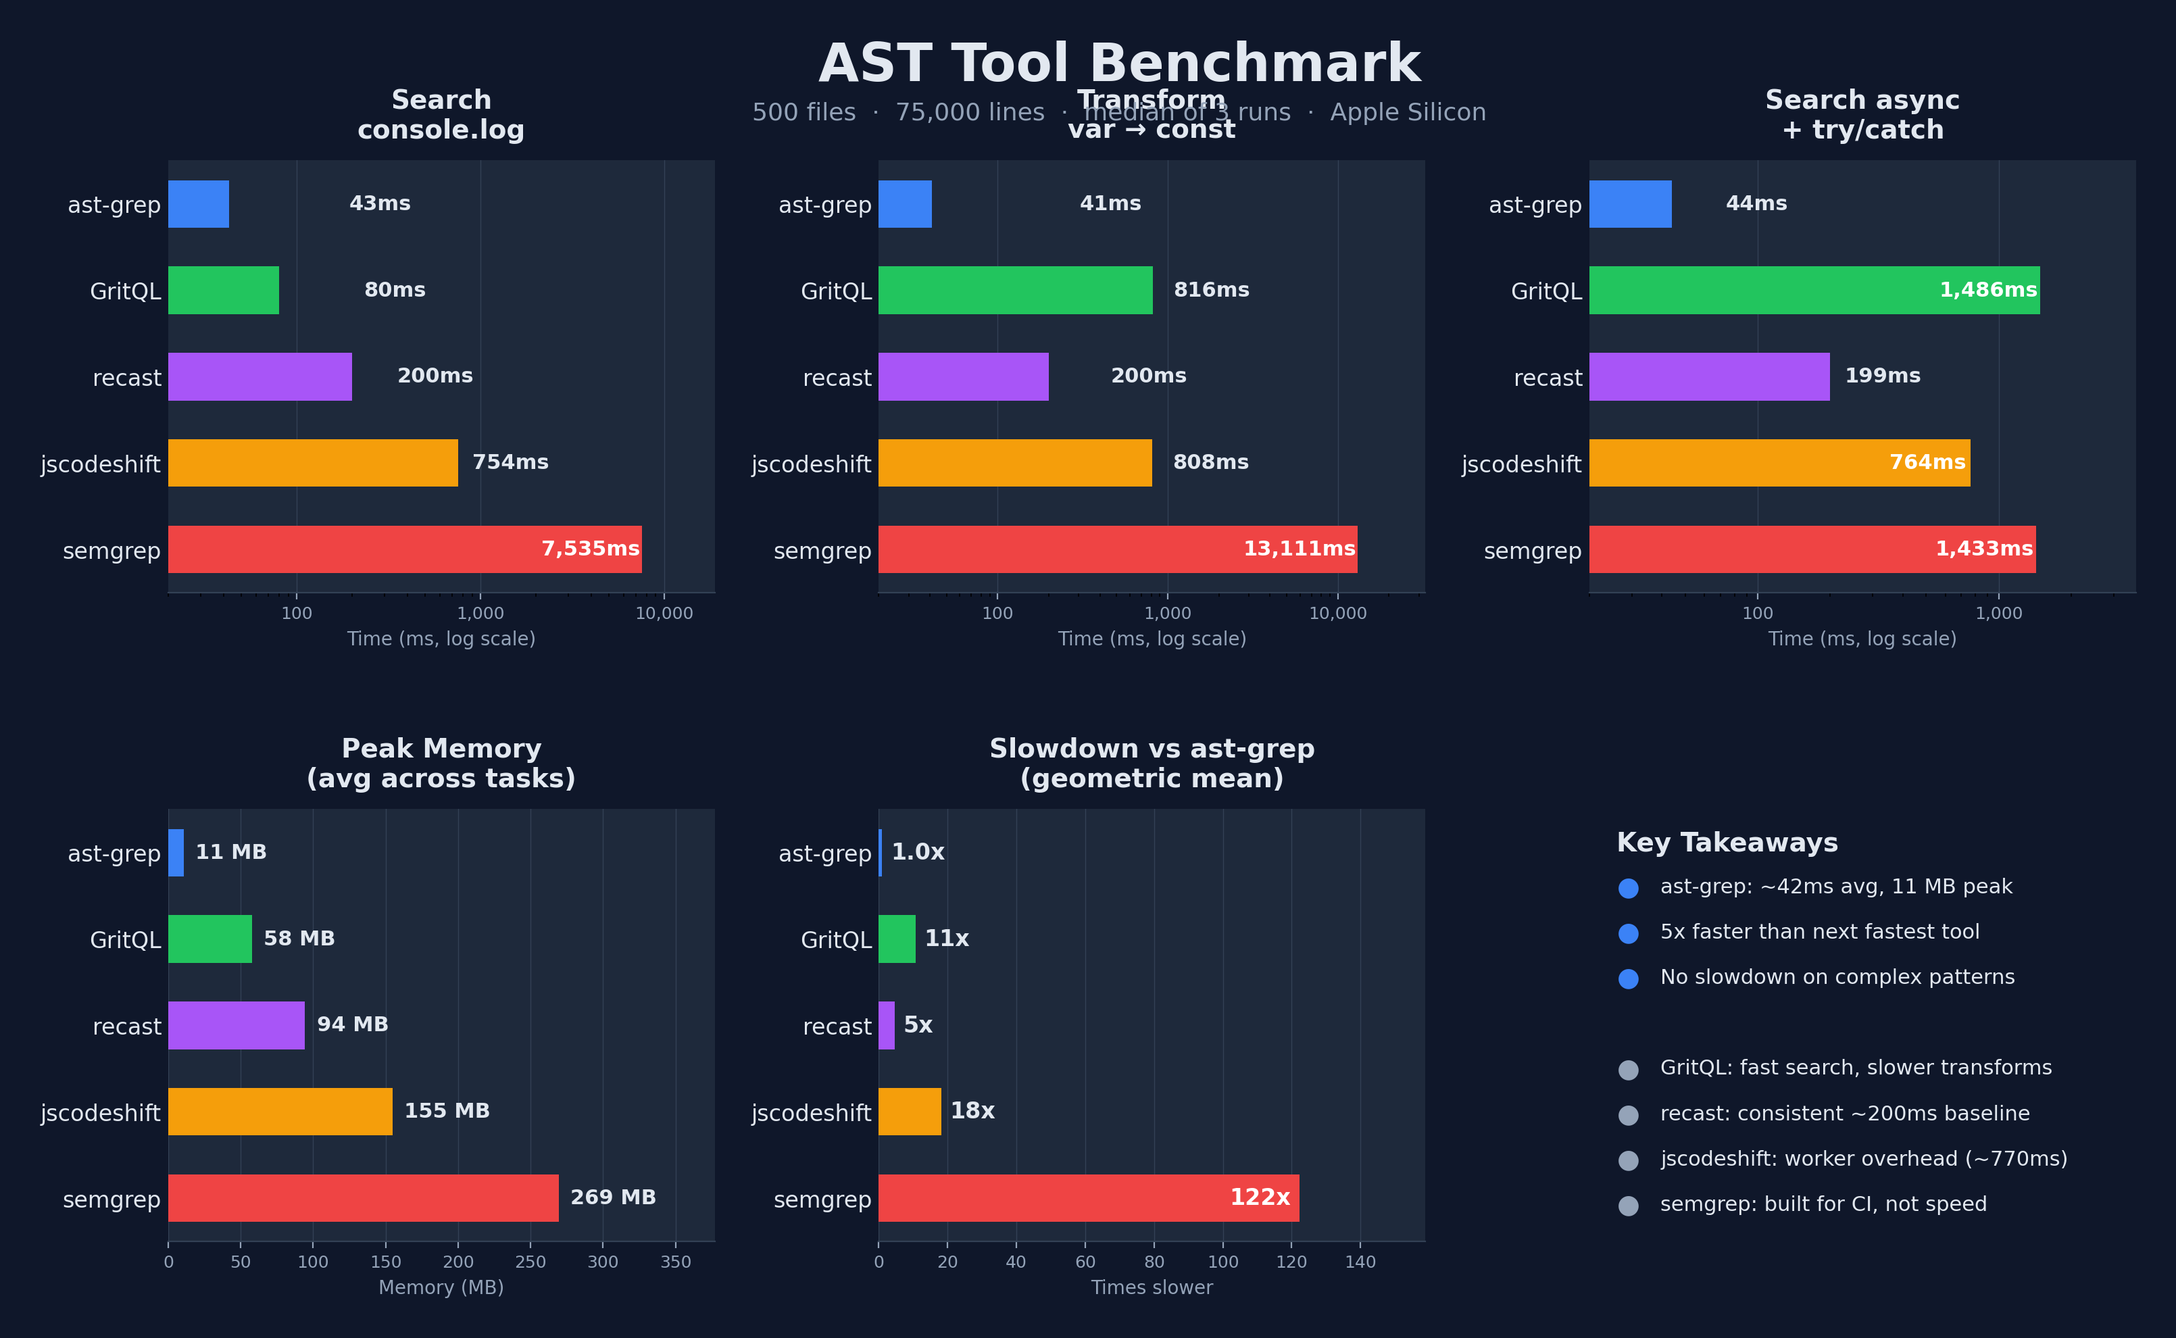
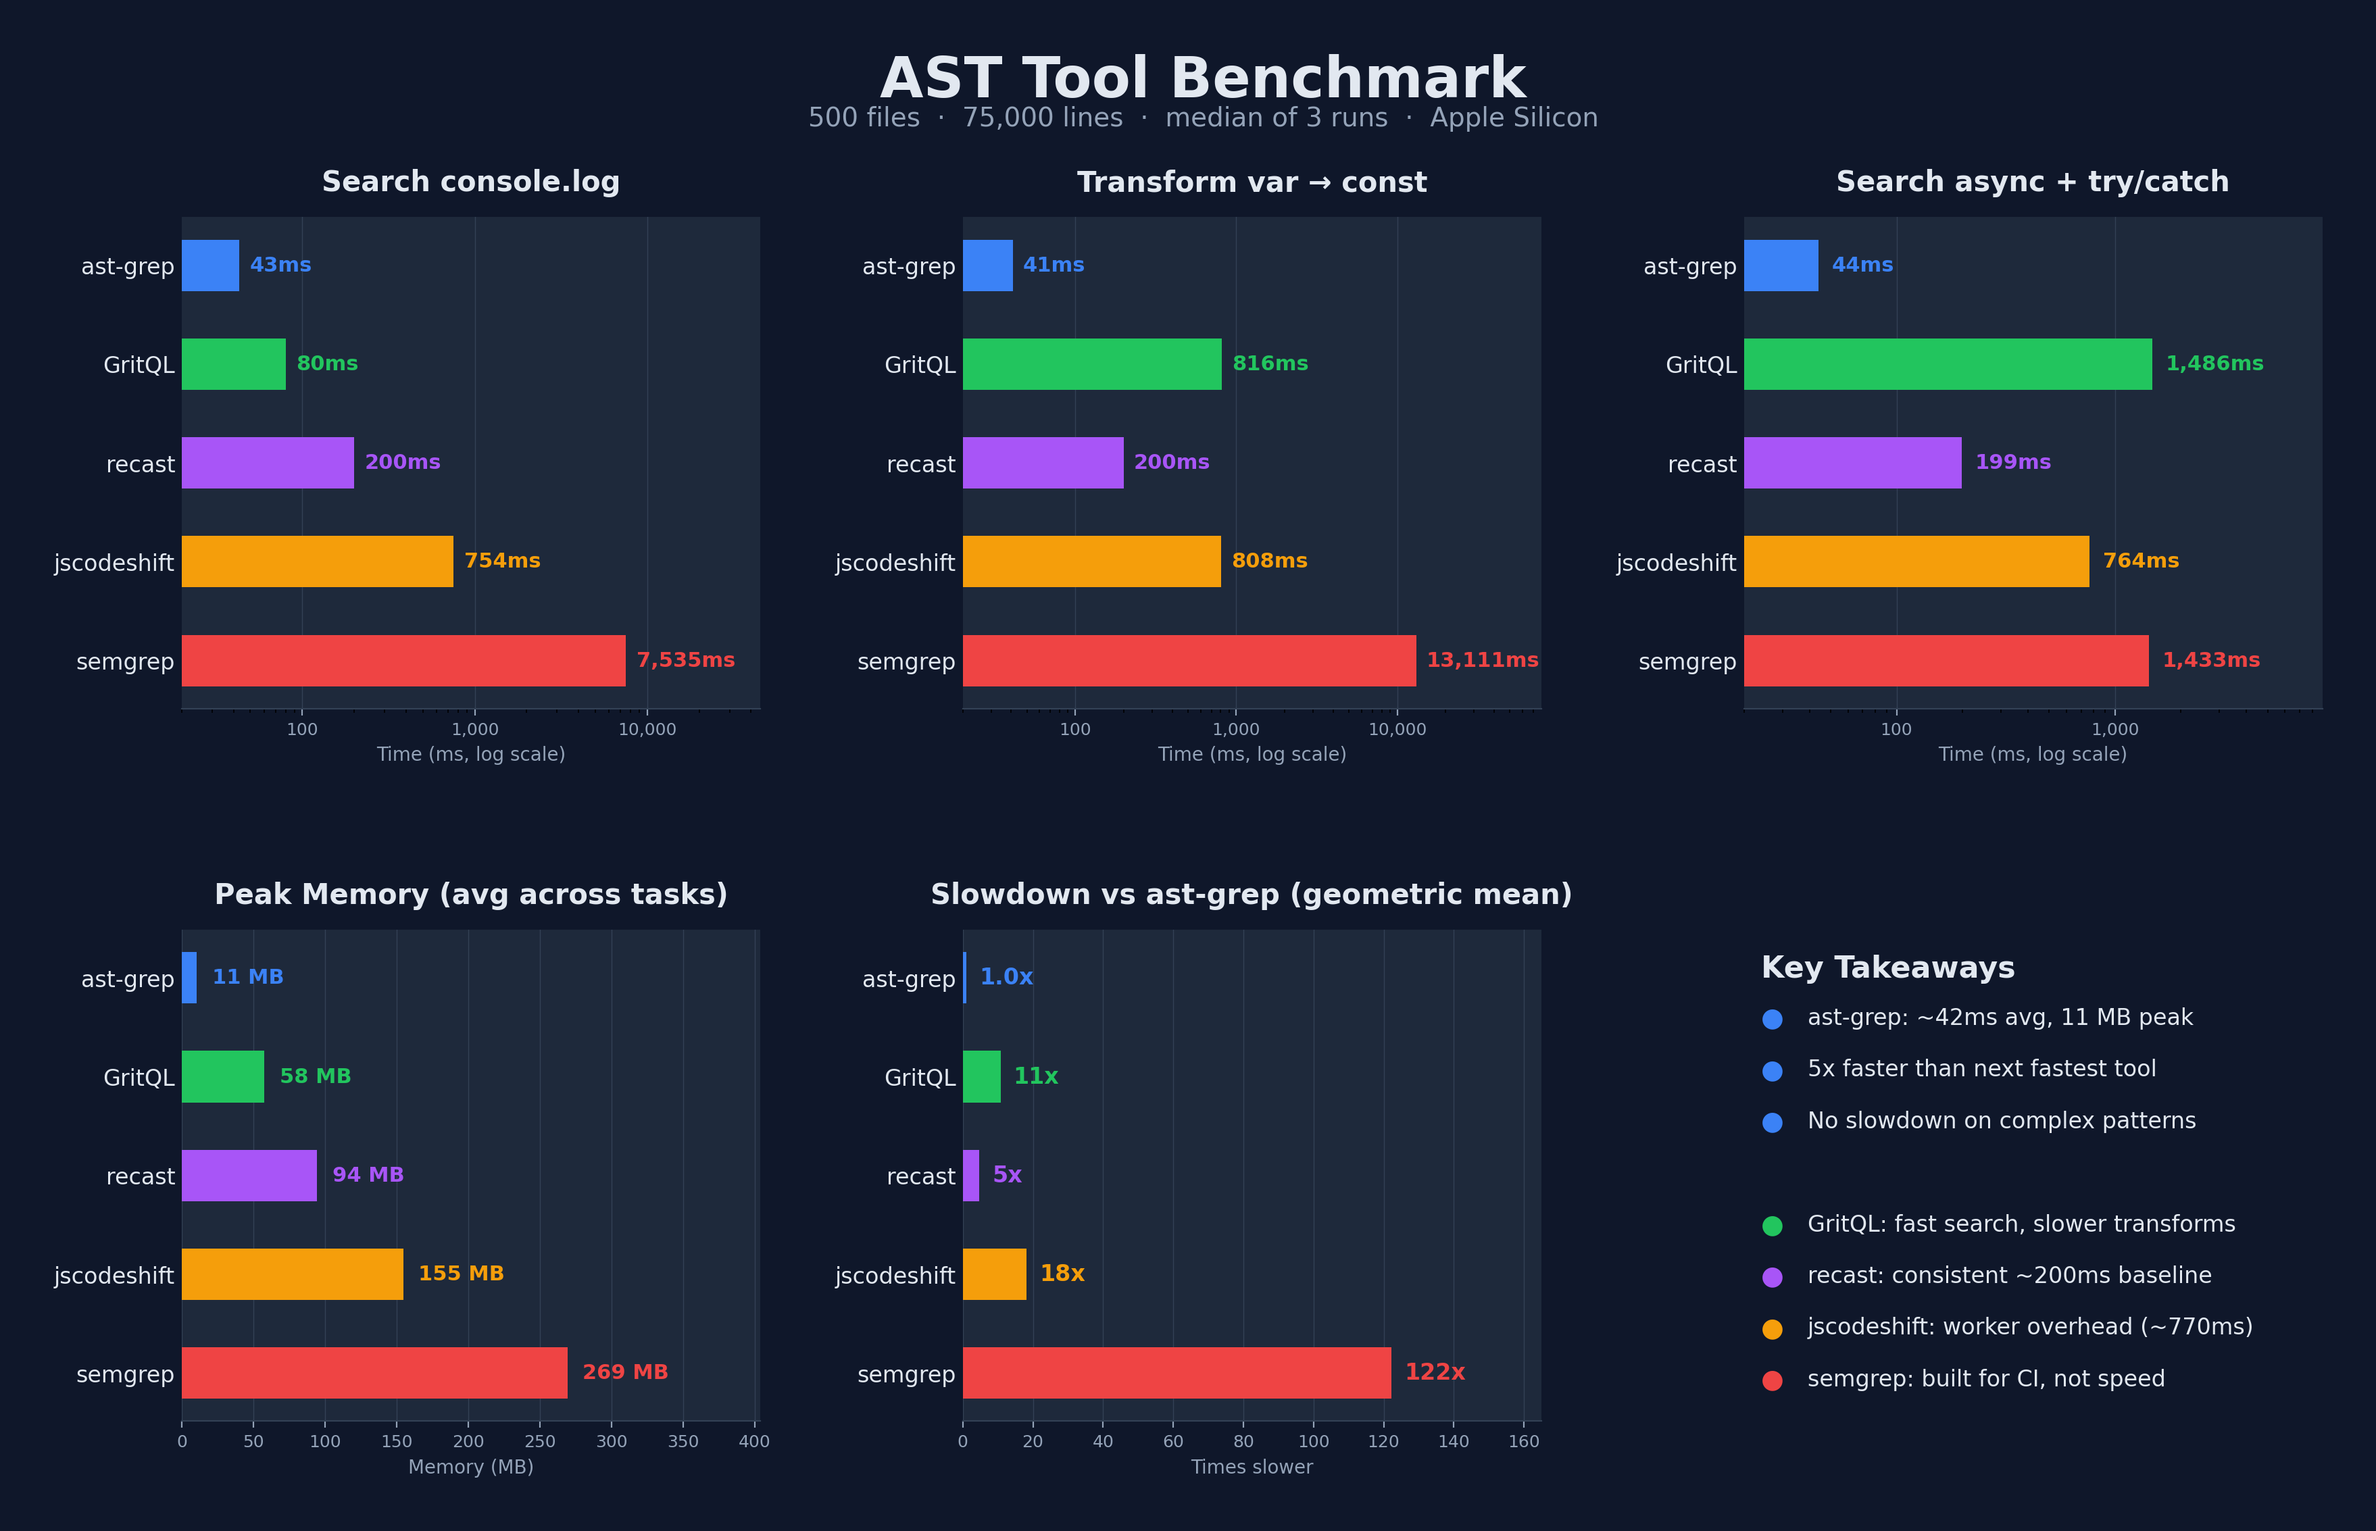
Add Pareto chart, fix benchmark chart layout, update README

diff --git a/generate-chart.py b/generate-chart.py
@@ -8,15 +8,15 @@ import numpy as np
 tools = ['ast-grep', 'GritQL', 'recast', 'jscodeshift', 'semgrep']
 
 tasks = {
-    'Search\nconsole.log': [43, 80, 200, 754, 7535],
-    'Transform\nvar → const': [41, 816, 200, 808, 13111],
-    'Search async\n+ try/catch': [44, 1486, 199, 764, 1433],
+    'Search console.log': [43, 80, 200, 754, 7535],
+    'Transform var → const': [41, 816, 200, 808, 13111],
+    'Search async + try/catch': [44, 1486, 199, 764, 1433],
 }
 
 memory = {
-    'Search\nconsole.log': [11, 58, 93, 153, 250],
-    'Transform\nvar → const': [10, 57, 95, 157, 327],
-    'Search async\n+ try/catch': [11, 58, 95, 154, 231],
+    'Search console.log': [11, 58, 93, 153, 250],
+    'Transform var → const': [10, 57, 95, 157, 327],
+    'Search async + try/catch': [11, 58, 95, 154, 231],
 }
 
 # ── Colors ────────────────────────────────────────────────────────
@@ -28,24 +28,27 @@ grid_color = '#334155'
 accent_color = '#94a3b8'
 
 # ── Figure ────────────────────────────────────────────────────────
-fig = plt.figure(figsize=(16, 10), facecolor=bg_color)
-fig.subplots_adjust(left=0.06, right=0.97, top=0.88, bottom=0.08, hspace=0.5, wspace=0.3)
+fig = plt.figure(figsize=(18, 11), facecolor=bg_color)
 
-# Title
-fig.text(0.5, 0.95, 'AST Tool Benchmark', ha='center', va='center',
-         fontsize=28, fontweight='bold', color=text_color,
+# Title — plenty of room at top
+fig.text(0.5, 0.98, 'AST Tool Benchmark', ha='center', va='top',
+         fontsize=30, fontweight='bold', color=text_color,
          fontfamily='sans-serif')
-fig.text(0.5, 0.915, '500 files  ·  75,000 lines  ·  median of 3 runs  ·  Apple Silicon',
-         ha='center', va='center', fontsize=13, color=accent_color,
+fig.text(0.5, 0.945, '500 files  ·  75,000 lines  ·  median of 3 runs  ·  Apple Silicon',
+         ha='center', va='top', fontsize=14, color=accent_color,
          fontfamily='sans-serif')
 
 task_names = list(tasks.keys())
 n_tools = len(tools)
-bar_height = 0.55
+bar_height = 0.52
+
+# Use gridspec for precise control
+gs = fig.add_gridspec(2, 3, left=0.08, right=0.96, top=0.87, bottom=0.06,
+                      hspace=0.45, wspace=0.35)
 
 # ── Top row: 3 task charts ───────────────────────────────────────
 for col, task in enumerate(task_names):
-    ax = fig.add_subplot(2, 3, col + 1)
+    ax = fig.add_subplot(gs[0, col])
     ax.set_facecolor(card_color)
 
     times = tasks[task]
@@ -54,30 +57,24 @@ for col, task in enumerate(task_names):
     bars = ax.barh(y_pos, times, height=bar_height, color=colors,
                    edgecolor='none', zorder=3)
 
-    # Add rounded ends illusion with slightly smaller alpha overlay
     for bar, c in zip(bars, colors):
         bar.set_linewidth(0)
 
-    # Value labels
-    for i, (t, m) in enumerate(zip(times, memory[task])):
-        if t > max(times) * 0.5:
-            ax.text(t - max(times) * 0.02, i, f'{t:,}ms',
-                    ha='right', va='center', fontsize=11,
-                    fontweight='bold', color='white', fontfamily='sans-serif')
-        else:
-            ax.text(t + max(times) * 0.02, i, f'{t:,}ms',
-                    ha='left', va='center', fontsize=11,
-                    fontweight='bold', color=text_color, fontfamily='sans-serif')
+    # Value labels — always outside the bar
+    for i, t in enumerate(times):
+        ax.text(t * 1.15, i, f'{t:,}ms',
+                ha='left', va='center', fontsize=11,
+                fontweight='bold', color=colors[i], fontfamily='sans-serif')
 
     ax.set_yticks(y_pos)
     ax.set_yticklabels(tools, fontsize=12, color=text_color, fontfamily='sans-serif')
     ax.invert_yaxis()
 
-    ax.set_title(task, fontsize=14, fontweight='bold', color=text_color,
-                 fontfamily='sans-serif', pad=12)
+    ax.set_title(task, fontsize=15, fontweight='bold', color=text_color,
+                 fontfamily='sans-serif', pad=14)
 
     ax.set_xscale('log')
-    ax.set_xlim(20, max(times) * 2.5)
+    ax.set_xlim(20, max(times) * 6)
     ax.xaxis.set_major_formatter(ticker.FuncFormatter(lambda x, _: f'{int(x):,}'))
     ax.tick_params(axis='x', colors=accent_color, labelsize=9)
     ax.tick_params(axis='y', length=0)
@@ -92,10 +89,9 @@ for col, task in enumerate(task_names):
     ax.grid(axis='x', color=grid_color, linewidth=0.5, zorder=0)
 
 # ── Bottom left: Memory chart ────────────────────────────────────
-ax_mem = fig.add_subplot(2, 3, 4)
+ax_mem = fig.add_subplot(gs[1, 0])
 ax_mem.set_facecolor(card_color)
 
-# Average memory across tasks
 avg_mem = [np.mean([memory[t][i] for t in task_names]) for i in range(n_tools)]
 y_pos = np.arange(n_tools)
 
@@ -103,16 +99,16 @@ bars = ax_mem.barh(y_pos, avg_mem, height=bar_height, color=colors,
                    edgecolor='none', zorder=3)
 
 for i, m in enumerate(avg_mem):
-    ax_mem.text(m + max(avg_mem) * 0.03, i, f'{m:.0f} MB',
+    ax_mem.text(m + max(avg_mem) * 0.04, i, f'{m:.0f} MB',
                 ha='left', va='center', fontsize=11,
-                fontweight='bold', color=text_color, fontfamily='sans-serif')
+                fontweight='bold', color=colors[i], fontfamily='sans-serif')
 
 ax_mem.set_yticks(y_pos)
 ax_mem.set_yticklabels(tools, fontsize=12, color=text_color, fontfamily='sans-serif')
 ax_mem.invert_yaxis()
-ax_mem.set_title('Peak Memory\n(avg across tasks)', fontsize=14, fontweight='bold',
-                 color=text_color, fontfamily='sans-serif', pad=12)
-ax_mem.set_xlim(0, max(avg_mem) * 1.4)
+ax_mem.set_title('Peak Memory (avg across tasks)', fontsize=15, fontweight='bold',
+                 color=text_color, fontfamily='sans-serif', pad=14)
+ax_mem.set_xlim(0, max(avg_mem) * 1.5)
 ax_mem.tick_params(axis='x', colors=accent_color, labelsize=9)
 ax_mem.tick_params(axis='y', length=0)
 ax_mem.set_xlabel('Memory (MB)', fontsize=10, color=accent_color, fontfamily='sans-serif')
@@ -123,10 +119,9 @@ ax_mem.spines['left'].set_visible(False)
 ax_mem.grid(axis='x', color=grid_color, linewidth=0.5, zorder=0)
 
 # ── Bottom center: Speedup multiplier chart ──────────────────────
-ax_sp = fig.add_subplot(2, 3, 5)
+ax_sp = fig.add_subplot(gs[1, 1])
 ax_sp.set_facecolor(card_color)
 
-# How many times slower than ast-grep (geometric mean across tasks)
 geo_means = []
 for i in range(n_tools):
     ratios = [tasks[t][i] / tasks[t][0] for t in task_names]
@@ -139,21 +134,16 @@ bars = ax_sp.barh(y_pos, geo_means, height=bar_height, color=colors,
 
 for i, g in enumerate(geo_means):
     label = f'{g:.0f}x' if g >= 2 else f'{g:.1f}x'
-    if g > max(geo_means) * 0.5:
-        ax_sp.text(g - max(geo_means) * 0.02, i, label,
-                   ha='right', va='center', fontsize=12,
-                   fontweight='bold', color='white', fontfamily='sans-serif')
-    else:
-        ax_sp.text(g + max(geo_means) * 0.02, i, label,
-                   ha='left', va='center', fontsize=12,
-                   fontweight='bold', color=text_color, fontfamily='sans-serif')
+    ax_sp.text(g + max(geo_means) * 0.03, i, label,
+               ha='left', va='center', fontsize=12,
+               fontweight='bold', color=colors[i], fontfamily='sans-serif')
 
 ax_sp.set_yticks(y_pos)
 ax_sp.set_yticklabels(tools, fontsize=12, color=text_color, fontfamily='sans-serif')
 ax_sp.invert_yaxis()
-ax_sp.set_title('Slowdown vs ast-grep\n(geometric mean)', fontsize=14, fontweight='bold',
-                color=text_color, fontfamily='sans-serif', pad=12)
-ax_sp.set_xlim(0, max(geo_means) * 1.3)
+ax_sp.set_title('Slowdown vs ast-grep (geometric mean)', fontsize=15, fontweight='bold',
+                color=text_color, fontfamily='sans-serif', pad=14)
+ax_sp.set_xlim(0, max(geo_means) * 1.35)
 ax_sp.tick_params(axis='x', colors=accent_color, labelsize=9)
 ax_sp.tick_params(axis='y', length=0)
 ax_sp.set_xlabel('Times slower', fontsize=10, color=accent_color, fontfamily='sans-serif')
@@ -164,35 +154,39 @@ ax_sp.spines['left'].set_visible(False)
 ax_sp.grid(axis='x', color=grid_color, linewidth=0.5, zorder=0)
 
 # ── Bottom right: Key takeaways ──────────────────────────────────
-ax_info = fig.add_subplot(2, 3, 6)
+ax_info = fig.add_subplot(gs[1, 2])
 ax_info.set_facecolor(card_color)
 ax_info.set_xlim(0, 10)
 ax_info.set_ylim(0, 10)
 ax_info.axis('off')
+
+# Rounded border effect
+for spine in ax_info.spines.values():
+    spine.set_visible(False)
 
 takeaways = [
     ('●', colors[0], 'ast-grep: ~42ms avg, 11 MB peak'),
     ('●', colors[0], '5x faster than next fastest tool'),
     ('●', colors[0], 'No slowdown on complex patterns'),
     ('', '', ''),
-    ('●', accent_color, 'GritQL: fast search, slower transforms'),
-    ('●', accent_color, 'recast: consistent ~200ms baseline'),
-    ('●', accent_color, 'jscodeshift: worker overhead (~770ms)'),
-    ('●', accent_color, 'semgrep: built for CI, not speed'),
+    ('●', colors[1], 'GritQL: fast search, slower transforms'),
+    ('●', colors[2], 'recast: consistent ~200ms baseline'),
+    ('●', colors[3], 'jscodeshift: worker overhead (~770ms)'),
+    ('●', colors[4], 'semgrep: built for CI, not speed'),
 ]
 
-ax_info.text(0.5, 9.5, 'Key Takeaways', fontsize=14, fontweight='bold',
+ax_info.text(0.3, 9.5, 'Key Takeaways', fontsize=16, fontweight='bold',
              color=text_color, fontfamily='sans-serif', va='top')
 
 for i, (bullet, color, text) in enumerate(takeaways):
     y = 8.2 - i * 1.05
     if bullet:
-        ax_info.text(0.5, y, bullet, fontsize=14, color=color,
+        ax_info.text(0.3, y, bullet, fontsize=14, color=color,
                      fontfamily='sans-serif', va='center')
-        ax_info.text(1.3, y, text, fontsize=11, color=text_color,
+        ax_info.text(1.1, y, text, fontsize=12, color=text_color,
                      fontfamily='sans-serif', va='center')
 
 # ── Save ──────────────────────────────────────────────────────────
 fig.savefig('benchmark.png', dpi=200,
-            facecolor=bg_color, bbox_inches='tight', pad_inches=0.3)
+            facecolor=bg_color, bbox_inches='tight', pad_inches=0.4)
 print('Saved benchmark.png')
